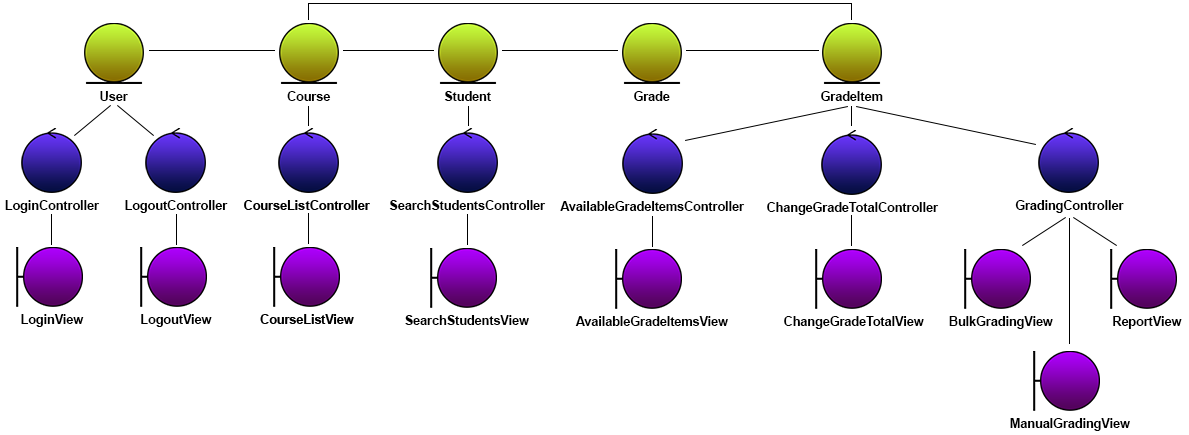
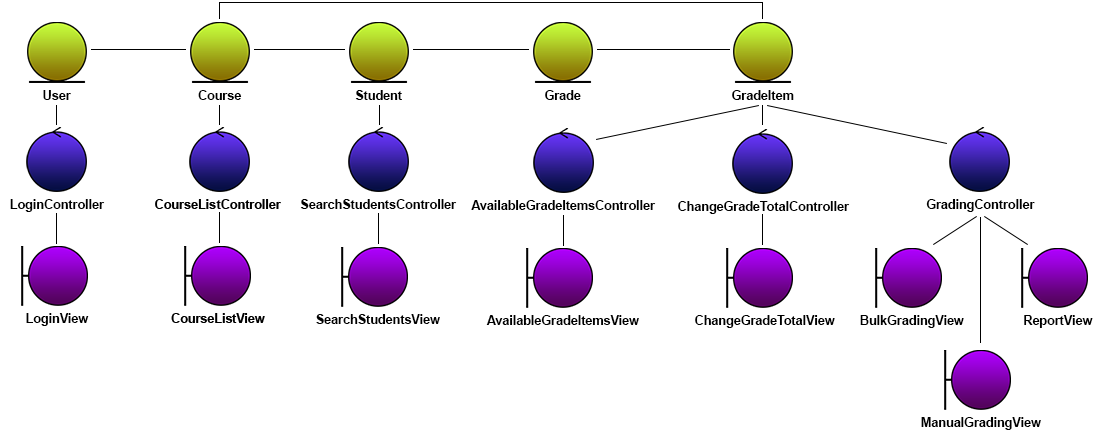
Updated analysis doc: removed LogoutView, added Pirajeev to SQA

diff --git a/python/templates/analysis.html b/python/templates/analysis.html
@@ -3,11 +3,11 @@
 		<title>ezMarker - Analysis</title>
 	</head>
 	<body>
-		<script src="../../../static/js/toc_generator.js"></script>
+		<script src="../static/js/toc_generator.js"></script>
 
 		<h1>ezMarker - Analysis</h1>
-		<p>Version 2.0 - In progress</p>
-		<p>Last updated: October 18, 2017</p>
+		<p>Version 2.0</p>
+		<p>Last updated: October 22, 2017</p>
 
 		<div id="toc">
 			<h2>Table of Contents</h2>
@@ -23,11 +23,10 @@
 		<h2>Object Classification</h2>
 
 		<h3>Object Diagram</h3>
-		<img src="../../../static/img/object_diagram.png" alt="ezMarker Object Diagram">
+		<img src="../static/img/object_diagram.png" alt="ezMarker Object Diagram">
 
 		<h3>Entity Objects</h3>
 		<ul>
-			<!--<li>Host - Stores host information from config file.</li>-->
 			<li>User - Stores information about logged in user, including the user's identity and permissions.</li>
 			<li>Course - Stores information about a course, which may consist the course identification code, professor, registerated students, and course content.</li>
 			<li>Student - Stores information about a student, specifically their coursework and grades. </li>
@@ -38,7 +37,6 @@
 		<h3>Boundary Objects</h3>
 		<ul>
 			<li>LoginView - Where user signs in with MLS credentials and receives Brightspace API token.</li>
-			<li>LogoutView - Where user signs out. The user is also presented with the choice to log back in with a link back to the LoginView.</li>
 			<li>CourseListView - Where user gets a list of courses that they have permission to manage grades.</li>
 			<li>SearchStudentsView - Where user can search for students. The search functions are either by name or student identificaton number.</li>
 			<li>AvailableGradeItemsView - Where user selects a grade item of a course that they have permission to upload grades to.</li>
@@ -50,17 +48,16 @@
 
 		<h3>Control Objects</h3>
 		<ul>
-			<li>LoginController - Allows retrieval of Brightspace token and updating User object.</li>
-			<li>LogoutController - Allows control the user's signout process and updating User object.</li>
+			<li>LoginController - Handles logging in and out. Retrieves the Brightspace token and updates the User object.</li>
 			<li>CourseListController - Allows retrieval of courses that the user has permission to upload grades to.</li>
 			<li>SearchStudentsController - Allows searching of students by name or student ID.</li>
 			<li>AvailableGradeItemsController - Allows retrieval of a course's GradeItems that the user has permission to upload grades to.</li>
 			<li>ChangeGradeTotalController - Allows changing of the grade total of a grade item and updating GradeItem object.</li>
-			<li>GradingController - Allows operate parsing, validating and uploading of students' grades and updating GradeItem object.</li>
+			<li>GradingController - Handles parsing, validating and uploading of students' grades and updating GradeItem object.</li>
 		</ul>
 
 		<h2>Class Diagram</h2>
-		<p>Please refer to the Section 3 of the analysis document for the Brightspace API Python Wrapper.</p>
+		<p>Please refer to Section 3 of the analysis document for the Brightspace API Python Wrapper.</p>
 
 		<h2 id="toc_exclude">Revision History</h2>
 		<h3 id="toc_exclude">Version 1.0 - 10/16/2017</h3>
@@ -68,11 +65,15 @@
 		<p>Authors: Sumeet Jhand, Shuaib Reeyaz, Sarah Johnston</p>
 		<p>SQA: Harold Hodgins, Troy Nechanicky</p>
 
-		<h3 id="toc_exclude">Version 2.0 - 10/??/2017</h3>
-		<p>Removed the use of "coordinate"</p>
-		<p>Added object description details</p>
-		<p>Authors: </p>
-		<p>SQA: Sophie Wang</p>
+		<h3 id="toc_exclude">Version 2.0 - 10/22/2017</h3>
+		<h4 id="toc_exclude">Revision Notes</h4>
+		<ul>
+			<li>Removed the use of "coordinates"</li>
+			<li>Added object description details</li>
+			<li>Removed LogoutView (user is brought back to LoginView on logout)
+		</ul>	
+		<p>Authors: Sumeet Jhand</p>
+		<p>SQA: Sophie Wang, Pirajeev Prabaharan</p>
 
 
 	</body>
